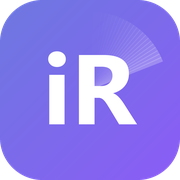
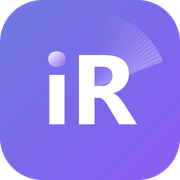
One mark, one wordmark, one nav colour
The dark logo is no longer a different drawing. Same gradient tile, a
touch deeper, and the ink flips white to black - and only a touch, because
the ink is black: darkening the tile takes contrast away rather than
adding it, and at the old depth the letters sat at 2.8:1 and went soft at
tab size. The dot of the i fades from the letter colour into the tile
under it, in both. The tab icon is the same drawing.

"iRadar" now wears the mark's gradient everywhere it is written - the
corner of every page, the sign-in screen, the forced-password screen and
the top of Help - painted through the text, with a plain colour under it
so it degrades to something readable rather than to nothing.

Reports sat in a different colour from the rest of the nav in dark mode.
The nav is a mix of links and a <summary> for the dropdown, and the dark
link rule only repainted the links.

Help: the opening heading and paragraph are gone - the mark and the four
figures say it. And "Test set" was listed as a page state, which it is
not: it is a filter over a fixed handful of pages, so it moved to Worth
knowing.

Changed region(s): [[0.25, 0.2778, 0.3889, 0.3889]]

diff --git a/templates/guide.html b/templates/guide.html
@@ -53,8 +53,20 @@
   .gd-hero h1 { margin: 0 0 10px; font-size: 32px; letter-spacing: -.7px; }
   .gd-hero .say { font-size: 17px; line-height: 1.55; margin: 0 auto 24px;
                max-width: 58ch; }
+  .idnt { display: flex; align-items: center; justify-content: center;
+          gap: 13px; margin-bottom: 22px; }
   .gd-hero .mark { width: 46px; height: 46px; border-radius: 12px;
-                   display: block; margin: 0 auto 14px; }
+                   display: block; }
+  /* same gradient as the mark beside it, and as the corner of every page */
+  .idnt b { font-size: 30px; font-weight: 800; letter-spacing: -.7px;
+            color: var(--accent); }
+  @supports (background-clip: text) or (-webkit-background-clip: text) {
+    .idnt b { background: linear-gradient(120deg, #6d78e0 10%, #8b5cf6 90%);
+              -webkit-background-clip: text; background-clip: text;
+              -webkit-text-fill-color: transparent; color: transparent; }
+  }
+  [data-theme="dark"] .idnt b {
+    background: linear-gradient(120deg, #aab2ff 10%, #c9a6ff 90%); }
   .gd-hero .m-dark { display: none; }
   [data-theme="dark"] .gd-hero .m-light { display: none; }
   [data-theme="dark"] .gd-hero .m-dark { display: block; }
@@ -183,7 +195,7 @@
   <nav class="toc" aria-label="On this page">
     <h4>On this page</h4>
     <ol>
-      <li><a href="#overview">What iRadar does</a></li>
+      <li><a href="#overview">Where things stand</a></li>
       <li><a href="#check">What happens on a check</a></li>
       <li><a href="#signals">What it notices</a></li>
       <li><a href="#review">Reviewing an update</a></li>
@@ -202,16 +214,13 @@
 
   <!-- what it is, and where it stands right now -->
   <section id="overview" class="card gd-hero">
-    <img class="mark m-light" alt=""
-         src="{{ url_for('static', filename='logo.png') }}?v=2">
-    <img class="mark m-dark" alt=""
-         src="{{ url_for('static', filename='logo-dark.png') }}?v=2">
-    <h1>What iRadar does</h1>
-    <p class="say">iRadar is website change monitoring for infineon.com. It
-      opens every page we track, once a week, and tells you what actually
-      changed since last time — wording, datasheets and other documents,
-      images, videos, boards and prices. So nobody has to open a page and try
-      to remember what it said last month.</p>
+    <div class="idnt">
+      <img class="mark m-light" alt=""
+           src="{{ url_for('static', filename='logo.png') }}?v=3">
+      <img class="mark m-dark" alt=""
+           src="{{ url_for('static', filename='logo-dark.png') }}?v=3">
+      <b>iRadar</b>
+    </div>
     <div class="figs">
       <a class="fig" href="{{ url_for('index') }}">
         <div class="n">{{ '{:,}'.format(f.pages) }}</div>
@@ -353,8 +362,6 @@
       <li><b>Ownership mismatch</b> — the owner or business line on the page does
         not agree with what was imported. Flagged for a human, never
         auto-corrected.</li>
-      <li><b>Test set</b> — a small fixed group used to try a change out before
-        putting it near all {{ '{:,}'.format(f.pages) }} pages.</li>
     </ul>
   </section>
 
@@ -591,6 +598,10 @@
         documents section, a video block, a partner list. Filter the Dashboard
         by them to find, say, every product page with no datasheets. A section
         that disappears entirely is a change worth seeing.</li>
+      <li><b>There is a small test set</b> — a fixed handful of pages used to
+        try a change out before it goes near all
+        {{ '{:,}'.format(f.pages) }}. It is a filter on the Dashboard, not
+        something that happens to a page.</li>
       <li><b>A page can be paused</b> when it is known to be in flux and you do
         not want it coming up every week. It stays in the list, marked
         <i>Paused</i>, and is simply not checked.</li>

diff --git a/templates/base.html b/templates/base.html
@@ -8,8 +8,8 @@
     the mark is ever redrawn. Regenerate with: python make_logo.py -#}
 <link rel="icon" id="favicon" sizes="any"
       data-base="{{ url_for('static', filename='') }}"
-      href="{{ url_for('static', filename='favicon.ico') }}?v=2">
-<link rel="apple-touch-icon" href="{{ url_for('static', filename='apple-touch-icon.png') }}?v=2">
+      href="{{ url_for('static', filename='favicon.ico') }}?v=3">
+<link rel="apple-touch-icon" href="{{ url_for('static', filename='apple-touch-icon.png') }}?v=3">
 <meta name="theme-color" content="#17161c">
 <script>
   // apply the saved theme BEFORE first paint so dark mode never flashes white
@@ -24,7 +24,7 @@
     var el = document.getElementById("favicon");
     if (!el) return;
     var dark = document.documentElement.dataset.theme === "dark";
-    var want = el.dataset.base + (dark ? "favicon-dark.ico" : "favicon.ico") + "?v=2";
+    var want = el.dataset.base + (dark ? "favicon-dark.ico" : "favicon.ico") + "?v=3";
     if (el.getAttribute("href") !== want) el.setAttribute("href", want);
   }
   paintFavicon();
@@ -82,6 +82,18 @@
                   display: flex; align-items: center; gap: 9px;
                   color: #b9beff; text-decoration: none; }
   header a.logo:hover { color: #d5d8ff; }
+  /* The wordmark wears the mark's gradient, so "iRadar" is the same thing in
+     the corner, on the sign-in screen and in Help. Painted through the text;
+     the plain colour under it is what shows if background-clip is unavailable,
+     so it degrades to something readable rather than to nothing. */
+  header a.logo b { color: #b9beff; }
+  @supports (background-clip: text) or (-webkit-background-clip: text) {
+    header a.logo b {
+      background: linear-gradient(120deg, #aab2ff 10%, #c9a6ff 90%);
+      -webkit-background-clip: text; background-clip: text;
+      -webkit-text-fill-color: transparent; color: transparent; }
+  }
+
   header .logo img { width: 26px; height: 26px; border-radius: 7px;
                      display: block; }
   /* Both marks are in the markup and CSS shows the one that suits the theme.
@@ -940,6 +952,12 @@
   [data-theme="dark"] a.chip,
   [data-theme="dark"] a.btn-ghost { color: var(--ink); }
   [data-theme="dark"] a.chip-on { color: #fff; }
+  /* The nav too. Its items are a mix of <a> and a <summary> for the dropdown,
+     and only the links were being repainted - so in dark mode "Reports" sat
+     there in a different colour from everything beside it. */
+  [data-theme="dark"] header nav a { color: #b9b8c6; }
+  [data-theme="dark"] header nav a:hover,
+  [data-theme="dark"] header nav a.on { color: #fff; }
   [data-theme="dark"] .pagecard-url { color: #a5b4fc; }
   [data-theme="dark"] .liveurl { color: #a5b4fc !important; }
   /* filled-button colour is the --btn token now. Restating it here as
@@ -987,9 +1005,9 @@
 <body>
 <header>
   <a class="logo" href="{{ url_for('index') }}">
-    <img class="m-light" src="{{ url_for('static', filename='logo.png') }}?v=2"
+    <img class="m-light" src="{{ url_for('static', filename='logo.png') }}?v=3"
          alt="" width="26" height="26">
-    <img class="m-dark" src="{{ url_for('static', filename='logo-dark.png') }}?v=2"
+    <img class="m-dark" src="{{ url_for('static', filename='logo-dark.png') }}?v=3"
          alt="" width="26" height="26">
     <b>iRadar</b>
   </a>

diff --git a/templates/login.html b/templates/login.html
@@ -6,8 +6,8 @@
 <title>Sign in — iRadar</title>
 <link rel="icon" id="favicon" sizes="any"
       data-base="{{ url_for('static', filename='') }}"
-      href="{{ url_for('static', filename='favicon.ico') }}?v=2">
-<link rel="apple-touch-icon" href="{{ url_for('static', filename='apple-touch-icon.png') }}?v=2">
+      href="{{ url_for('static', filename='favicon.ico') }}?v=3">
+<link rel="apple-touch-icon" href="{{ url_for('static', filename='apple-touch-icon.png') }}?v=3">
 {#- standalone on purpose: base.html carries the nav and the account menu,
     neither of which means anything to someone who is not signed in yet -#}
 <script>
@@ -17,7 +17,7 @@
     // the tab icon cannot follow CSS, so it is picked here
     var el = document.getElementById("favicon");
     if (el) el.setAttribute("href", el.dataset.base +
-      (t === "dark" ? "favicon-dark.ico" : "favicon.ico") + "?v=2");
+      (t === "dark" ? "favicon-dark.ico" : "favicon.ico") + "?v=3");
   })();
 </script>
 <style>
@@ -47,7 +47,15 @@
   [data-theme="dark"] .brand .m-light { display: none; }
   [data-theme="dark"] .brand .m-dark { display: block; }
   /* one colour: the mark beside it already carries the brand's blue */
-  .brand b { font-weight: 800; letter-spacing: -.4px; }
+  .brand b { font-weight: 800; letter-spacing: -.4px; color: var(--accent); }
+  @supports (background-clip: text) or (-webkit-background-clip: text) {
+    .brand b {
+      background: linear-gradient(120deg, #6d78e0 10%, #8b5cf6 90%);
+      -webkit-background-clip: text; background-clip: text;
+      -webkit-text-fill-color: transparent; color: transparent; }
+  }
+  [data-theme="dark"] .brand b {
+    background: linear-gradient(120deg, #aab2ff 10%, #c9a6ff 90%); }
   .sub { text-align: center; color: var(--muted); font-size: 13.5px;
          margin-bottom: 22px; }
   form { background: var(--card); border: 1px solid var(--line);
@@ -76,9 +84,9 @@
 <body>
   <div class="box">
     <div class="brand">
-      <img class="m-light" src="{{ url_for('static', filename='logo.png') }}?v=2"
+      <img class="m-light" src="{{ url_for('static', filename='logo.png') }}?v=3"
            alt="" width="40" height="40">
-      <img class="m-dark" src="{{ url_for('static', filename='logo-dark.png') }}?v=2"
+      <img class="m-dark" src="{{ url_for('static', filename='logo-dark.png') }}?v=3"
            alt="" width="40" height="40">
       {#- one flex item, or the gap opens up between the "i" and "Radar" -#}
       <b>iRadar</b>

diff --git a/templates/first_password.html b/templates/first_password.html
@@ -6,8 +6,8 @@
 <title>Choose a password — iRadar</title>
 <link rel="icon" id="favicon" sizes="any"
       data-base="{{ url_for('static', filename='') }}"
-      href="{{ url_for('static', filename='favicon.ico') }}?v=2">
-<link rel="apple-touch-icon" href="{{ url_for('static', filename='apple-touch-icon.png') }}?v=2">
+      href="{{ url_for('static', filename='favicon.ico') }}?v=3">
+<link rel="apple-touch-icon" href="{{ url_for('static', filename='apple-touch-icon.png') }}?v=3">
 {#- standalone like the login page: when forced, every other page redirects
     back here anyway, so offering the nav would only be a dead end -#}
 <script>
@@ -17,7 +17,7 @@
     // the tab icon cannot follow CSS, so it is picked here
     var el = document.getElementById("favicon");
     if (el) el.setAttribute("href", el.dataset.base +
-      (t === "dark" ? "favicon-dark.ico" : "favicon.ico") + "?v=2");
+      (t === "dark" ? "favicon-dark.ico" : "favicon.ico") + "?v=3");
   })();
 </script>
 <style>
@@ -46,7 +46,15 @@
   .brand .m-dark { display: none; }
   [data-theme="dark"] .brand .m-light { display: none; }
   [data-theme="dark"] .brand .m-dark { display: block; }
-  .brand b { font-weight: 800; letter-spacing: -.4px; }
+  .brand b { font-weight: 800; letter-spacing: -.4px; color: var(--accent); }
+  @supports (background-clip: text) or (-webkit-background-clip: text) {
+    .brand b {
+      background: linear-gradient(120deg, #6d78e0 10%, #8b5cf6 90%);
+      -webkit-background-clip: text; background-clip: text;
+      -webkit-text-fill-color: transparent; color: transparent; }
+  }
+  [data-theme="dark"] .brand b {
+    background: linear-gradient(120deg, #aab2ff 10%, #c9a6ff 90%); }
   .sub { text-align: center; color: var(--muted); font-size: 13.5px;
          margin-bottom: 22px; }
   form { background: var(--card); border: 1px solid var(--line);
@@ -79,9 +87,9 @@
 <body>
   <div class="box">
     <div class="brand">
-      <img class="m-light" src="{{ url_for('static', filename='logo.png') }}?v=2"
+      <img class="m-light" src="{{ url_for('static', filename='logo.png') }}?v=3"
            alt="" width="40" height="40">
-      <img class="m-dark" src="{{ url_for('static', filename='logo-dark.png') }}?v=2"
+      <img class="m-dark" src="{{ url_for('static', filename='logo-dark.png') }}?v=3"
            alt="" width="40" height="40">
       <b>iRadar</b>
     </div>

diff --git a/make_logo.py b/make_logo.py
@@ -22,7 +22,7 @@ sweep edge and the letter edges clean.
 import math
 from pathlib import Path
 
-from PIL import Image, ImageDraw, ImageFont
+from PIL import Image, ImageChops, ImageDraw, ImageFont
 
 OUT = Path(__file__).parent / "static"
 SS = 6                       # supersample factor
@@ -30,8 +30,8 @@ SS = 6                       # supersample factor
 # the app's own accent pair, so the mark is the same colour as the interface
 INDIGO = (0x6d, 0x78, 0xe0)
 VIOLET = (0x8b, 0x5c, 0xf6)
-NEAR_BLACK = (0x0d, 0x0d, 0x12)
 WHITE = (255, 255, 255)
+BLACK = (0x0b, 0x0b, 0x10)
 
 TEXT = "iR"
 FONTS = ("segoeuib.ttf", "arialbd.ttf", "calibrib.ttf", "DejaVuSans-Bold.ttf")
@@ -92,28 +92,96 @@ def _sweep(im, ink, alpha, start=-96, span=74, steps=26):
     return Image.alpha_composite(im, over)
 
 
-def _letters(im, colour, text_frac):
+def _ink_rows(mask, x0, x1):
+    """Which rows carry ink between two columns, as (start, end) bands."""
+    px = mask.load()
+    rows, bands, run = [], [], None
+    for y in range(mask.size[1]):
+        has = any(px[x, y] > 40 for x in range(x0, x1))
+        rows.append(has)
+    for y, has in enumerate(rows):
+        if has and run is None:
+            run = y
+        elif not has and run is not None:
+            bands.append((run, y))
+            run = None
+    if run is not None:
+        bands.append((run, mask.size[1]))
+    return bands
+
+
+def _letters(im, colour, fade_to, text_frac):
+    """Draw "iR", with the dot of the i fading into the tile behind it.
+
+    The dot is the one piece of the wordmark that is pure decoration - it
+    carries no shape you need to read - so it is where a gradient can go
+    without costing legibility. It is isolated by rendering the text to a mask
+    and taking the topmost separate band of ink inside the i's columns; the
+    gap between the dot and the stem is what makes that reliable, in any font.
+    """
     n = im.size[0]
-    d = ImageDraw.Draw(im)
     f = _font(int(n * text_frac))
-    box = d.textbbox((0, 0), TEXT, font=f)
+    scratch = Image.new("L", (n, n), 0)
+    sd = ImageDraw.Draw(scratch)
+    box = sd.textbbox((0, 0), TEXT, font=f)
     w, h = box[2] - box[0], box[3] - box[1]
     # centred on the ink, not the line box, then nudged up a touch: the dot of
     # the i sits above the cap line and drags the optical centre down
-    d.text(((n - w) / 2 - box[0], (n - h) / 2 - box[1] - n * 0.012),
-           TEXT, font=f, fill=colour)
+    x0 = (n - w) / 2 - box[0]
+    y0 = (n - h) / 2 - box[1] - n * 0.012
+    sd.text((x0, y0), TEXT, font=f, fill=255)
+
+    i_left = max(0, int(x0))
+    i_right = min(n, int(x0 + sd.textlength("i", font=f)))
+    bands = _ink_rows(scratch, i_left, i_right)
+
+    dot = Image.new("L", (n, n), 0)
+    if len(bands) >= 2:
+        top, bottom = bands[0]
+        crop = scratch.crop((i_left, top, i_right, bottom))
+        dot.paste(crop, (i_left, top))
+    body = ImageChops.subtract(scratch, dot)
+
+    solid = Image.new("RGBA", (n, n), colour + (255,))
+    im = Image.composite(solid, im, body)
+
+    if dot.getbbox():
+        grad = Image.new("RGBA", (n, n))
+        gp = grad.load()
+        bb = dot.getbbox()
+        span = max(1, (bb[2] - bb[0]) + (bb[3] - bb[1]))
+        for y in range(bb[1], bb[3]):
+            for x in range(bb[0], bb[2]):
+                t = ((x - bb[0]) + (y - bb[1])) / span
+                gp[x, y] = (round(colour[0] + (fade_to[0] - colour[0]) * t),
+                            round(colour[1] + (fade_to[1] - colour[1]) * t),
+                            round(colour[2] + (fade_to[2] - colour[2]) * t), 255)
+        im = Image.composite(grad, im, dot)
     return im
+
+
+# The same tile, a touch deeper, so dark mode is the same mark rather than a
+# different one - only the ink flips.
+#
+# Not much deeper, though: the ink that goes on it is BLACK, so darkening the
+# tile takes contrast away rather than adding it. At 0.72 the letters sat at
+# 2.8:1 and went soft at tab size; 0.88 keeps the tile clearly the deeper of
+# the two while the letters read.
+def _darker(c, k=0.88):
+    return tuple(round(v * k) for v in c)
 
 
 def mark(size, dark=False, text_frac=0.55, radius_frac=0.235):
     n = size * SS
     if dark:
-        im = _tile(n, NEAR_BLACK, NEAR_BLACK, radius_frac)
-        im = _sweep(im, VIOLET, 150)
+        top, bottom = _darker(INDIGO), _darker(VIOLET)
+        ink, sweep_ink, sweep_a = BLACK, BLACK, 52
     else:
-        im = _tile(n, INDIGO, VIOLET, radius_frac)
-        im = _sweep(im, WHITE, 62)
-    im = _letters(im, WHITE, text_frac)
+        top, bottom, ink, sweep_ink, sweep_a = INDIGO, VIOLET, WHITE, WHITE, 62
+    im = _tile(n, top, bottom, radius_frac)
+    im = _sweep(im, sweep_ink, sweep_a)
+    # the dot fades from the letter colour into the tile under it
+    im = _letters(im, ink, bottom, text_frac)
     return im.resize((size, size), Image.LANCZOS)
 
 
